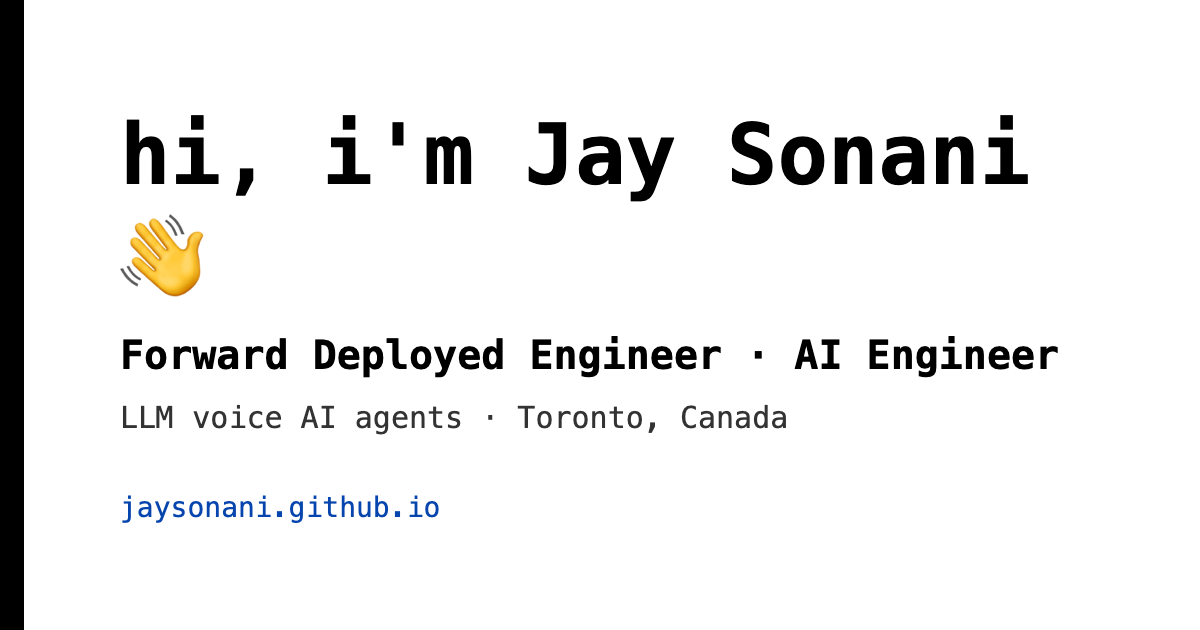
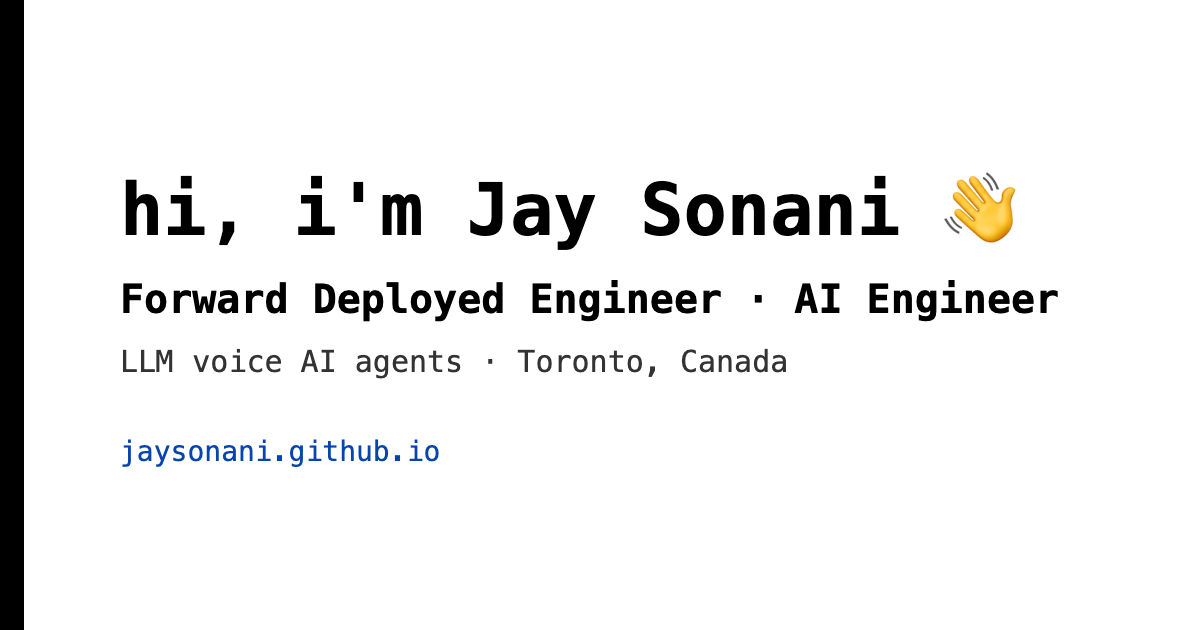
Fit link-preview heading on one line

diff --git a/assets/og-image.html b/assets/og-image.html
@@ -10,7 +10,7 @@
 <style>
 html,body{margin:0;width:1200px;height:630px;overflow:hidden}
 body{background:#fff;color:#000;font-family:Consolas,"SF Mono",Menlo,Monaco,"Liberation Mono","Courier New",monospace;display:flex;flex-direction:column;justify-content:center;padding:0 96px;box-sizing:border-box;border-left:24px solid #000}
-h1{font-size:84px;margin:0;letter-spacing:0}
+h1{font-size:72px;margin:0;letter-spacing:0}
 .t{font-size:40px;color:#000;margin:18px 0 0;font-weight:600}
 .s{font-size:30px;color:#333;margin:22px 0 0}
 .u{font-size:28px;color:#0645ad;margin:56px 0 0}
